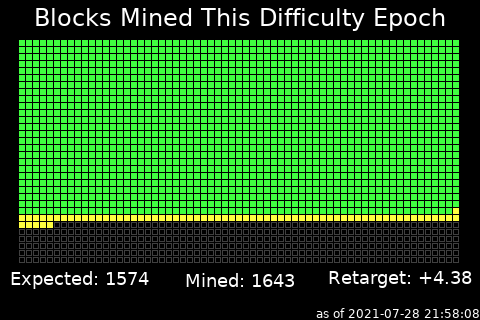
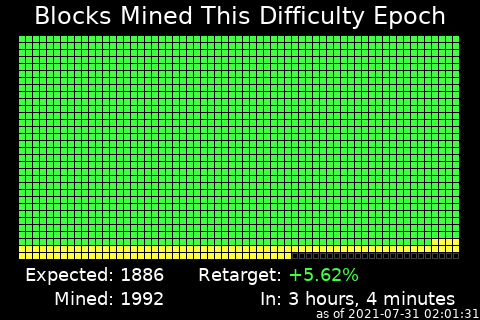
Difficultyepoch add countdown (#17)
* Update display for Blocks Mined

* Add updated image

Changed region(s): [[0.0, 0.0, 1.0, 1.0]]

diff --git a/scripts/difficultyepoch.py b/scripts/difficultyepoch.py
@@ -28,29 +28,46 @@ def getfont(size):
     if size == 24:
         return fontDeja24
 
-def drawcenteredtext(draw, s, fontsize, x, y):
+def drawcenteredtext(draw, s, fontsize, x, y, textcolor=colorFFFFFF):
     thefont = getfont(fontsize)
     sw,sh = draw.textsize(s, thefont)
     ox,oy = thefont.getoffset(s)
     sw += ox
     sh += oy
-    draw.text(xy=(x-(sw/2),y-(sh/2)), text=s, font=thefont, fill=colorFFFFFF)
+    draw.text(xy=(x-(sw/2),y-(sh/2)), text=s, font=thefont, fill=textcolor)
 
-def drawbottomlefttext(draw, s, fontsize, x, y):
+def drawbottomlefttext(draw, s, fontsize, x, y, textcolor=colorFFFFFF):
     thefont = getfont(fontsize)
     sw,sh = draw.textsize(s, thefont)
     ox,oy = thefont.getoffset(s)
     sw += ox
     sh += oy
-    draw.text(xy=(x,y-sh), text=s, font=thefont, fill=colorFFFFFF)
+    draw.text(xy=(x,y-sh), text=s, font=thefont, fill=textcolor)
 
-def drawbottomrighttext(draw, s, fontsize, x, y):
+def drawbottomrighttext(draw, s, fontsize, x, y, textcolor=colorFFFFFF):
     thefont = getfont(fontsize)
     sw,sh = draw.textsize(s, thefont)
     ox,oy = thefont.getoffset(s)
     sw += ox
     sh += oy
     draw.text(xy=(x-sw,y-sh), text=s, font=thefont, fill=colorFFFFFF)
+
+def drawtoplefttext(draw, s, fontsize, x, y, textcolor=colorFFFFFF):
+    thefont = getfont(fontsize)
+    sw,sh = draw.textsize(s, thefont)
+    ox,oy = thefont.getoffset(s)
+    sw += ox
+    sh += oy
+    draw.text(xy=(x,y), text=s, font=thefont, fill=textcolor)
+
+def drawtoprighttext(draw, s, fontsize, x, y, textcolor=colorFFFFFF):
+    thefont = getfont(fontsize)
+    sw,sh = draw.textsize(s, thefont)
+    ox,oy = thefont.getoffset(s)
+    sw += ox
+    sh += oy
+    draw.text(xy=(x-sw,y), text=s, font=thefont, fill=textcolor)
+
 
 def getcurrentblock():
     cmd = "bitcoin-cli getblockchaininfo"
@@ -99,11 +116,42 @@ def createimage(width=480, height=320):
     secondspassed = timenow - timebegan
     expectedmined = int(math.floor(secondspassed / 600))
     nextadjustment = str(float("%.2f" % (((float(blocksmined) / float(expectedmined)) - 1.0) * 100)))
+    adjustcolor = colorbehind
     if "-" not in nextadjustment:
         nextadjustment = "+" + nextadjustment
+        adjustcolor = colormined
+    estimateepochend = int(math.floor((float(secondspassed) / float(blocksmined))*2016)) + timebegan
+    secondstoepochend = estimateepochend - timenow
+    nextepochdesc = ""
+    if secondstoepochend > 86400:
+        nextepochdays = math.floor(secondstoepochend / 86400)
+        nextepochdesc = nextepochdesc + str(nextepochdays) + " day"
+        if nextepochdays > 1:
+            nextepochdesc = nextepochdesc + "s"
+        secondstoepochend = secondstoepochend - (nextepochdays * 86400)
+    if secondstoepochend > 3600:
+        nextepochhours = math.floor(secondstoepochend / 3600)
+        if nextepochdesc != "":
+            nextepochdesc = nextepochdesc + ", "
+        nextepochdesc = nextepochdesc + str(nextepochhours) + " hour"
+        if nextepochhours > 1:
+            nextepochdesc = nextepochdesc + "s"
+        secondstoepochend = secondstoepochend - (nextepochhours * 3600)
+    if secondstoepochend > 600:
+        nextepochminutes = math.floor(secondstoepochend / 600)
+        if nextepochdesc != "":
+            nextepochdesc = nextepochdesc + ", "
+        nextepochdesc = nextepochdesc + str(nextepochminutes) + " minute"
+        if nextepochminutes > 1:
+            nextepochdesc = nextepochdesc + "s"
+        secondstoepochend = secondstoepochend - (nextepochminutes * 600)
+    else:
+        if nextepochdesc == "":
+            "a few minutes"
+
     blockw=int(math.floor(width/63))
     padleft=int(math.floor((width-(63*blockw))/2))
-    padtop=40
+    padtop=36
     im = Image.new(mode="RGB", size=(width, height))
     draw = ImageDraw.Draw(im)
     for dc in range(63):
@@ -124,9 +172,14 @@ def createimage(width=480, height=320):
                     outlinecolor = colorbehind
                 draw.rectangle(xy=((tlx,tly),(brx,bry)),fill=None,outline=outlinecolor)
     drawcenteredtext(draw, "Blocks Mined This Difficulty Epoch", 24, int(width/2), int(padtop/2))
-    drawcenteredtext(draw, "Expected: " + str(expectedmined), 18, int(width/6*1), height-padtop)
-    drawcenteredtext(draw, "Mined: " + str(blocksmined), 18, int(width/6*3), height-padtop)
-    drawcenteredtext(draw, "Retarget: " + str(nextadjustment), 18, int(width/6*5), height-padtop)
+    drawtoprighttext(draw, "Expected: ", 18, int(width/4*1), height-56)
+    drawtoplefttext(draw, str(expectedmined), 18, int(width/4*1), height-56)
+    drawtoprighttext(draw, "Mined: ", 18, int(width/4*1), height-32)
+    drawtoplefttext(draw, str(blocksmined), 18, int(width/4*1), height-32)
+    drawtoprighttext(draw, "Retarget: ", 18, int(width/10*6), height-56)
+    drawtoplefttext(draw, str(nextadjustment) + "%", 18, int(width/10*6), height-56, adjustcolor)
+    drawtoprighttext(draw, "In: ", 18, int(width/10*6), height-32)
+    drawtoplefttext(draw, str(nextepochdesc), 18, int(width/10*6), height-32)
     drawbottomrighttext(draw, "as of " + getdateandtime(), 12, width, height)
     im.save(outputFile)
 
